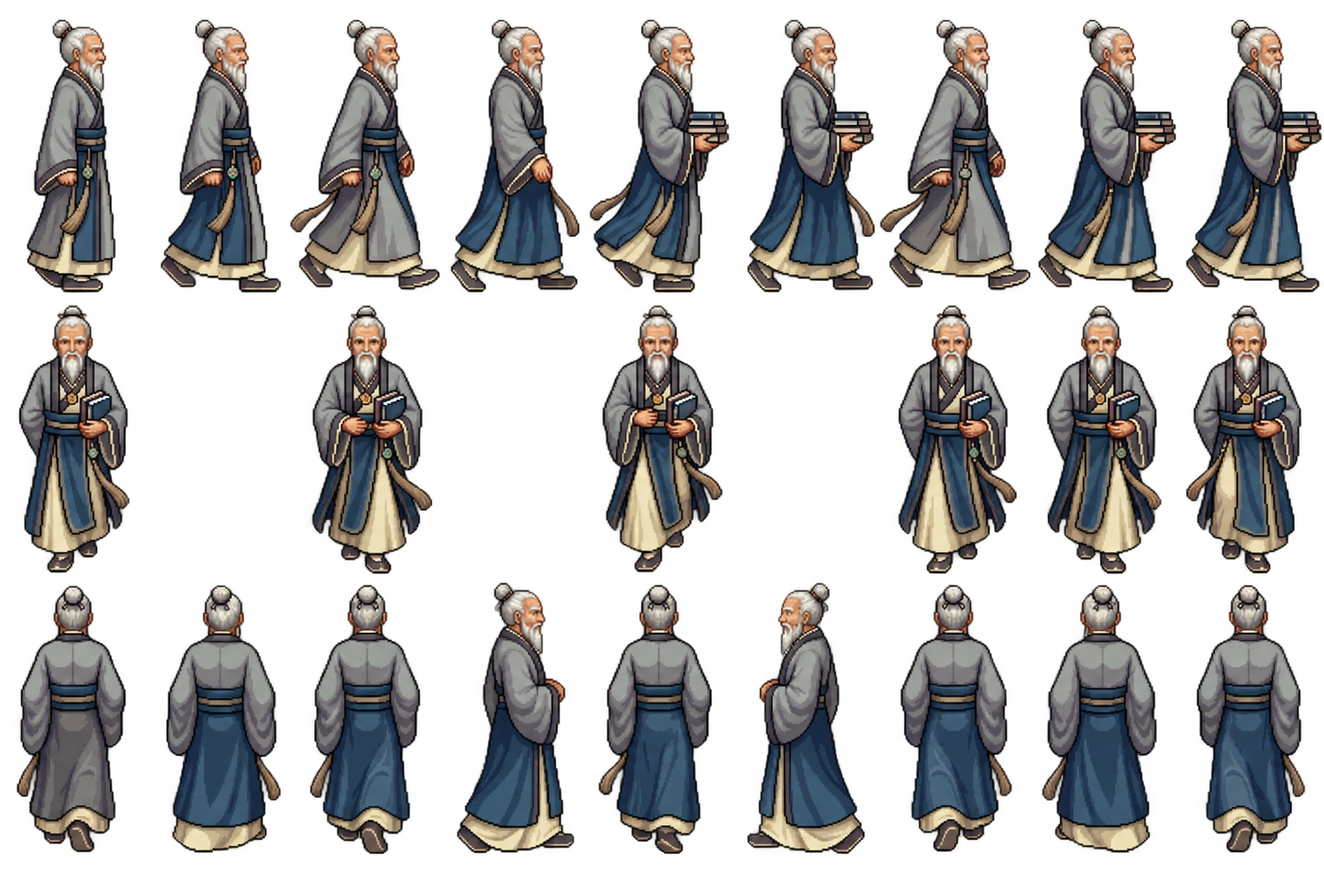
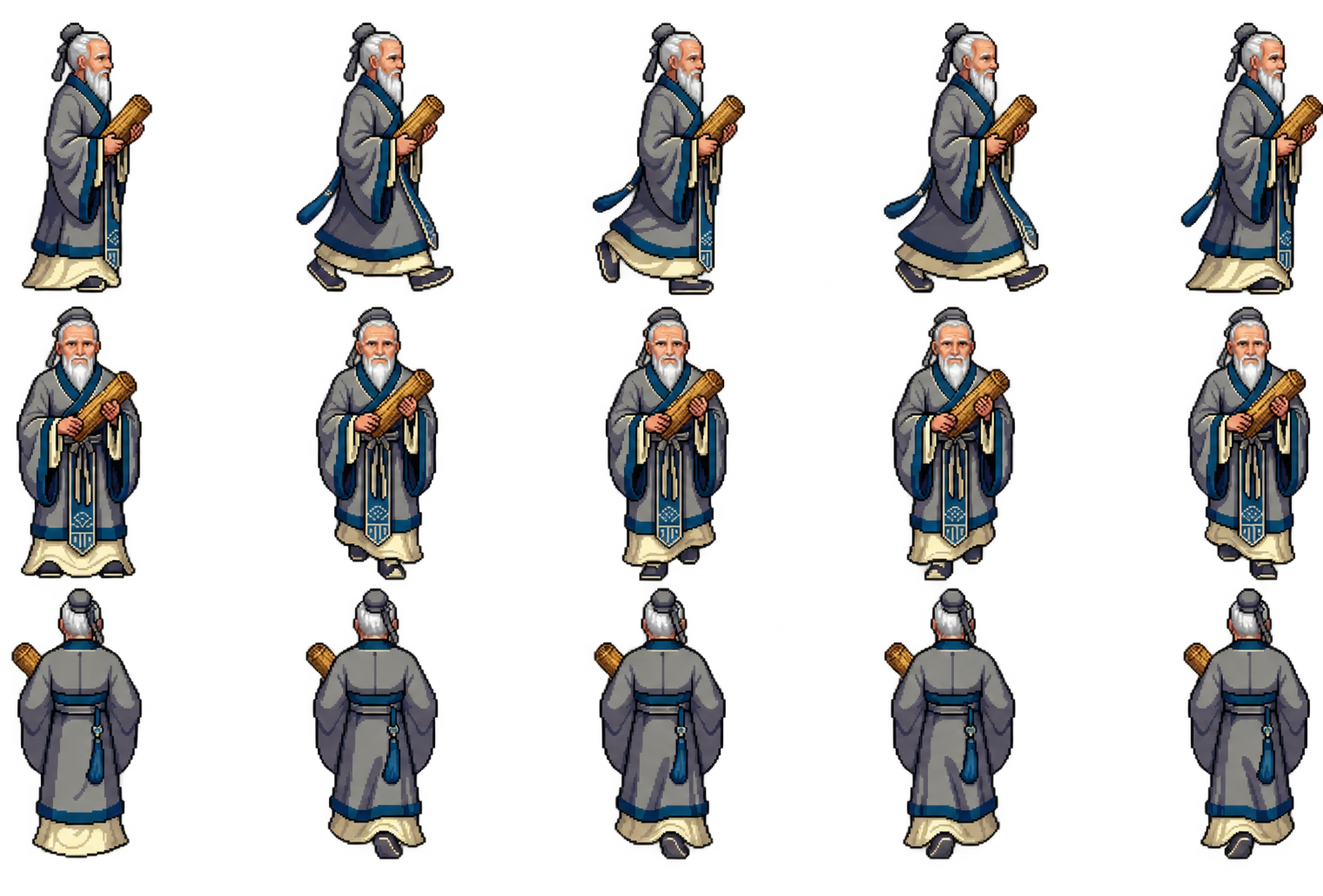
Restore character selection on every start and rebuild NPC walk frames

diff --git a/tests/browser/game.spec.js b/tests/browser/game.spec.js
@@ -9,7 +9,7 @@ for(const point of route.points.slice(1)){for(let i=0;i<180;i++){const [lat,lng]
 await expect(page.locator('#start-challenge')).toBeEnabled();}
 async function briefing(page){await expect(page.locator('.encounter-page')).toBeVisible();await page.locator('#npc-talk').click();for(let i=0;i<3;i++)await page.locator('#npc-next').click();}
 async function win(page,n){await expect(page.locator('[data-pad="0"]')).toBeEnabled({timeout:10000});for(let i=0;i<n;i++)await page.locator('[data-pad="0"]').click();await expect(page.locator('#next')).toBeVisible();}
-test('keyboard movement, retry, reload, unique rewards and full ending',async({page})=>{test.setTimeout(180000);const errors=[];page.on('pageerror',e=>errors.push(e.message));await page.addInitScript(()=>Math.random=()=>0);await begin(page);await expect(page.locator('#start-challenge')).toBeDisabled();await walk(page,'color');await page.locator('#start-challenge').click();await briefing(page);await expect(page.locator('[data-pad="0"]')).toBeDisabled();await expect(page.locator('[data-pad="1"]')).toBeEnabled({timeout:10000});await page.locator('[data-pad="1"]').click();await expect(page.locator('#replay')).toBeVisible();await page.locator('#replay').click();await win(page,4);await expect(page.locator('#next')).toHaveText('繼續探索其他夢境 →');await page.locator('#next').click();await expect(page.locator('#selected-name')).toContainText('屏東美術館');await expect(page.locator('.task-card[data-preview-task="color"]')).toHaveClass(/done/);await expect(page.locator('#start-challenge')).toBeEnabled();await page.reload();await page.locator('#begin').click();await expect(page.locator('.shard.collected')).toHaveCount(1);await walk(page,'gate');await expect(page.locator('#selected-name')).toContainText('阿猴城門');await page.locator('#start-challenge').click();await briefing(page);await win(page,5);await expect(page.locator('#next')).toHaveText('繼續探索其他夢境 →');await page.locator('#next').click();await walk(page,'book');await expect(page.locator('#selected-name')).toContainText('屏東書院');await page.locator('#start-challenge').click();await briefing(page);await win(page,6);await page.locator('#next').click();await expect(page.locator('.ending')).toBeVisible();await expect(page.locator('.united-shards span')).toHaveCount(3);expect(JSON.parse(await page.evaluate(()=>localStorage.getItem('dream-mender:v1:sim')))).toEqual(['color','gate','book']);await page.screenshot({path:'test-results/ending-desktop.png'});await page.locator('#return').click();await page.locator('#real-mode').click();await expect(page.locator('.shard.collected')).toHaveCount(0);await page.locator('#sim-mode').click();await page.locator('#reset').click();await page.locator('#cancel-reset').click();await expect(page.locator('.shard.collected')).toHaveCount(3);await page.locator('#reset').click();await page.locator('#confirm-reset').click();await expect(page.locator('.shard.collected')).toHaveCount(0);expect(errors).toEqual([]);});
+test('keyboard movement, retry, reload, unique rewards and full ending',async({page})=>{test.setTimeout(180000);const errors=[];page.on('pageerror',e=>errors.push(e.message));await page.addInitScript(()=>Math.random=()=>0);await begin(page);await expect(page.locator('#start-challenge')).toBeDisabled();await walk(page,'color');await page.locator('#start-challenge').click();await briefing(page);await expect(page.locator('[data-pad="0"]')).toBeDisabled();await expect(page.locator('[data-pad="1"]')).toBeEnabled({timeout:10000});await page.locator('[data-pad="1"]').click();await expect(page.locator('#replay')).toBeVisible();await page.locator('#replay').click();await win(page,4);await expect(page.locator('#next')).toHaveText('繼續探索其他夢境 →');await page.locator('#next').click();await expect(page.locator('#selected-name')).toContainText('屏東美術館');await expect(page.locator('.task-card[data-preview-task="color"]')).toHaveClass(/done/);await expect(page.locator('#start-challenge')).toBeEnabled();await page.reload();await page.locator('#begin').click();await expect(page.locator('.character-card.chosen')).toBeVisible();await page.locator('#confirm-player').click();await expect(page.locator('.shard.collected')).toHaveCount(1);await walk(page,'gate');await expect(page.locator('#selected-name')).toContainText('阿猴城門');await page.locator('#start-challenge').click();await briefing(page);await win(page,5);await expect(page.locator('#next')).toHaveText('繼續探索其他夢境 →');await page.locator('#next').click();await walk(page,'book');await expect(page.locator('#selected-name')).toContainText('屏東書院');await page.locator('#start-challenge').click();await briefing(page);await win(page,6);await page.locator('#next').click();await expect(page.locator('.ending')).toBeVisible();await expect(page.locator('.united-shards span')).toHaveCount(3);expect(JSON.parse(await page.evaluate(()=>localStorage.getItem('dream-mender:v1:sim')))).toEqual(['color','gate','book']);await page.screenshot({path:'test-results/ending-desktop.png'});await page.locator('#return').click();await page.locator('#real-mode').click();await expect(page.locator('.shard.collected')).toHaveCount(0);await page.locator('#sim-mode').click();await page.locator('#reset').click();await page.locator('#cancel-reset').click();await expect(page.locator('.shard.collected')).toHaveCount(3);await page.locator('#reset').click();await page.locator('#confirm-reset').click();await expect(page.locator('.shard.collected')).toHaveCount(0);expect(errors).toEqual([]);});
 test('real location explicit request, denial, retry, poor accuracy, expiry, no fallback',async({page})=>{await page.addInitScript(()=>{window.locationCalls=0;Object.defineProperty(navigator,'geolocation',{value:{watchPosition(ok,error){window.locationCalls++;window.geoOK=ok;window.geoError=error;return 1;},clearWatch(){}}});});await begin(page);await page.locator('#real-mode').click();expect(await page.evaluate(()=>window.locationCalls)).toBe(0);await page.locator('#locate').click();await page.evaluate(()=>window.geoError({code:1}));await expect(page.locator('#location-status')).toContainText('權限遭拒');await expect(page.locator('.mode-badge')).toContainText('真實定位模式');await page.locator('#locate').click();await page.evaluate(()=>window.geoOK({coords:{latitude:22.67,longitude:120.48,accuracy:100},timestamp:Date.now()}));await expect(page.locator('#location-status')).toContainText('精度不足');await page.locator('#locate').click();await page.evaluate(()=>window.geoOK({coords:{latitude:22.67,longitude:120.48,accuracy:5},timestamp:Date.now()-20000}));await expect(page.locator('#location-status')).toContainText('已過期');await page.locator('#locate').click();await page.evaluate(()=>window.geoOK({coords:{latitude:22.67,longitude:120.48,accuracy:5},timestamp:Date.now()}));await expect(page.locator('#start-challenge')).toBeDisabled();await expect(page.locator('#arrival-reason')).toContainText('尚未查證');});
 test('mobile joystick drag, release, cancellation and layout',async({page})=>{await page.setViewportSize({width:390,height:844});await begin(page);await expect(page.locator('.dpad')).toHaveCount(0);const before=await page.locator('#coordinates').innerText();const stick=page.locator('#joystick');await stick.scrollIntoViewIfNeeded();const box=await stick.boundingBox();await page.mouse.move(box.x+box.width/2,box.y+box.height/2);await page.mouse.down();await page.mouse.move(box.x+box.width/2,box.y+5);await page.waitForTimeout(500);await page.mouse.up();await page.waitForTimeout(200);const stopped=await page.locator('#coordinates').innerText();expect(stopped).not.toBe(before);await page.waitForTimeout(350);expect(await page.locator('#coordinates').innerText()).toBe(stopped);await expect(page.locator('.joystick-knob')).toHaveCSS('transform','matrix(1, 0, 0, 1, 0, 0)');await page.mouse.move(box.x+box.width/2,box.y+box.height/2);await page.mouse.down();await page.mouse.move(box.x+box.width/2,box.y+5);await page.waitForTimeout(250);await page.evaluate(()=>window.dispatchEvent(new Event('blur')));await page.mouse.up();await page.waitForTimeout(200);const paused=await page.locator('#coordinates').innerText();await page.waitForTimeout(300);expect(await page.locator('#coordinates').innerText()).toBe(paused);expect(await page.evaluate(()=>document.documentElement.scrollWidth<=innerWidth)).toBe(true);await page.screenshot({path:'test-results/joystick-mobile.png',fullPage:true});});
 
@@ -54,7 +54,7 @@ test('repair restores only its region and unlocks sourced journal story across r
  await page.setViewportSize({width:390,height:844});await page.addInitScript(()=>Math.random=()=>0);await begin(page);await expect(page.locator('.dream-region.colored')).toHaveCount(0);
  await page.locator('[data-tab="journal"]').click();await expect(page.locator('.journal article.locked')).toHaveCount(3);await expect(page.locator('.culture-story')).toHaveCount(0);await page.locator('[data-tab="explore"]').click();await walk(page,'color');await page.locator('#start-challenge').click();await briefing(page);await expect(page.locator('#repair-vision')).toHaveCSS('filter','grayscale(1)');await win(page,4);await expect(page.locator('#repair-vision')).toHaveCSS('filter','grayscale(0)');await expect(page.locator('#challenge-collection .collected')).toHaveCount(1);await page.screenshot({path:'test-results/repair-color-v8.png'});
  await page.locator('#next').click();await expect(page.locator('[data-region="color"]')).toHaveClass(/colored/);await expect(page.locator('.dream-region.colored')).toHaveCount(1);await page.locator('[data-tab="journal"]').click();await expect(page.locator('.journal article.unlocked')).toHaveCount(1);await expect(page.locator('[data-journal-task="color"] .culture-story')).toContainText('2022');await expect(page.locator('[data-journal-task="color"] .memory-story')).toContainText('遊戲故事');await expect(page.locator('[data-journal-task="color"] .story-source')).toHaveAttribute('href',/cna.com.tw/);await page.screenshot({path:'test-results/journal-unlocked-v8.png',fullPage:true});
- await page.reload();await page.locator('#begin').click();await expect(page.locator('.dream-region.colored')).toHaveCount(1);await page.locator('[data-tab="journal"]').click();await expect(page.locator('.journal article.unlocked')).toHaveCount(1);await page.locator('#real-mode').click();await expect(page.locator('.journal article.locked')).toHaveCount(3);await page.locator('#sim-mode').click();await page.locator('#reset').click();await page.locator('#confirm-reset').click();await expect(page.locator('.journal article.locked')).toHaveCount(3);await expect(page.locator('.dream-region.colored')).toHaveCount(0);
+ await page.reload();await page.locator('#begin').click();await expect(page.locator('.character-card.chosen')).toBeVisible();await page.locator('#confirm-player').click();await expect(page.locator('.dream-region.colored')).toHaveCount(1);await page.locator('[data-tab="journal"]').click();await expect(page.locator('.journal article.unlocked')).toHaveCount(1);await page.locator('#real-mode').click();await expect(page.locator('.journal article.locked')).toHaveCount(3);await page.locator('#sim-mode').click();await page.locator('#reset').click();await page.locator('#confirm-reset').click();await expect(page.locator('.journal article.locked')).toHaveCount(3);await expect(page.locator('.dream-region.colored')).toHaveCount(0);
 });
 
 test('walk directly to any landmark without selecting a mission; challenge stays bound to arrival',async({page})=>{
@@ -72,8 +72,8 @@ test('zoom hierarchy and challenge steps, retry feedback and cultural reward',as
 test('joystick offers slow movement and blocked-road feedback without leaving roads',async({page})=>{
  await page.setViewportSize({width:390,height:844});await begin(page);
  async function drag(fraction){const b=await page.locator('#joystick').boundingBox();const before=(await page.locator('#coordinates').innerText()).split(',').map(Number);await page.mouse.move(b.x+b.width/2,b.y+b.height/2);await page.mouse.down();await page.mouse.move(b.x+b.width/2,b.y+b.height/2-b.width*.3*fraction);await page.waitForTimeout(700);await page.mouse.up();await page.waitForTimeout(150);const after=(await page.locator('#coordinates').innerText()).split(',').map(Number);expect(roadRoute({lat:after[0],lng:after[1]},'color')).not.toBeNull();return Math.hypot(after[0]-before[0],after[1]-before[1]);}
- const slow=await drag(.35);await page.reload();await page.locator('#begin').click();const fast=await drag(1);expect(slow).toBeGreaterThan(0);expect(fast).toBeGreaterThan(slow*2);
- await page.reload();await page.locator('#begin').click();const before=await page.locator('#coordinates').innerText();const b=await page.locator('#joystick').boundingBox();await page.mouse.move(b.x+b.width/2,b.y+b.height/2);await page.mouse.down();await page.mouse.move(b.x+b.width*.67,b.y+b.height*.75);await expect(page.locator('#junction-hint')).toContainText('前方無法通行');expect(await page.locator('#coordinates').innerText()).toBe(before);await page.mouse.up();await expect(page.locator('#player')).not.toHaveClass(/blocked/);
+ const slow=await drag(.35);await page.reload();await page.locator('#begin').click();await expect(page.locator('.character-card.chosen')).toBeVisible();await page.locator('#confirm-player').click();const fast=await drag(1);expect(slow).toBeGreaterThan(0);expect(fast).toBeGreaterThan(slow*2);
+ await page.reload();await page.locator('#begin').click();await expect(page.locator('.character-card.chosen')).toBeVisible();await page.locator('#confirm-player').click();const before=await page.locator('#coordinates').innerText();const b=await page.locator('#joystick').boundingBox();await page.mouse.move(b.x+b.width/2,b.y+b.height/2);await page.mouse.down();await page.mouse.move(b.x+b.width*.67,b.y+b.height*.75);await expect(page.locator('#junction-hint')).toContainText('前方無法通行');expect(await page.locator('#coordinates').innerText()).toBe(before);await page.mouse.up();await expect(page.locator('#player')).not.toHaveClass(/blocked/);
 });
 
 test('NPC patrol, talk artwork, cultural dialogue and mission return preserve progress',async({page})=>{
@@ -91,7 +91,7 @@ test('arrival feedback, patrol resume, readable dialogue, heard skip and NPC tha
  test.setTimeout(90000);await page.setViewportSize({width:390,height:844});await page.addInitScript(()=>Math.random=()=>0);await begin(page);await page.keyboard.down('w');await expect(page.locator('#arrival-toast')).toBeVisible({timeout:6000});await page.keyboard.up('w');await expect(page.locator('.map-pin.arrived')).toHaveCount(1);await page.locator('#start-challenge').click();await expect(page.locator('#npc-skip')).toHaveCount(0);
  await page.waitForTimeout(1300);const patrolTime=await page.locator('.npc-walker').evaluate(el=>el.getAnimations()[0].currentTime);await page.locator('#npc-talk').click();await expect(page.locator('.npc-stage')).toHaveClass(/talking/);const frozen=await page.locator('.npc-walker').evaluate(el=>el.getAnimations()[0].currentTime);expect(Math.abs(frozen-patrolTime)).toBeLessThan(500);await page.waitForTimeout(400);expect(await page.locator('.npc-walker').evaluate(el=>el.getAnimations()[0].currentTime)).toBeCloseTo(frozen,0);await page.locator('#npc-close').click();await expect(page.locator('#npc-talk')).toBeVisible();const resumed=await page.locator('.npc-walker').evaluate(el=>el.getAnimations()[0].currentTime);expect(resumed).toBeGreaterThanOrEqual(frozen);expect(resumed-frozen).toBeLessThan(1000);
  await page.locator('#npc-talk').click();await page.locator('#npc-next').click();const dialogue=await page.locator('.npc-dialogue').boundingBox(),actions=await page.locator('.npc-actions').boundingBox();expect(actions.y).toBeGreaterThanOrEqual(dialogue.y+dialogue.height-1);expect(actions.y+actions.height).toBeLessThan(844);await page.screenshot({path:'test-results/npc-v13-mobile.png',fullPage:true});await page.locator('#npc-next').click();await page.locator('#npc-next').click();await expect(page.locator('.challenge-page')).toBeVisible();await page.locator('#back').click();await page.locator('#start-challenge').click();await expect(page.locator('#npc-skip')).toBeVisible();await page.locator('#npc-skip').click();await win(page,4);await expect(page.locator('.npc-thanks')).toContainText('色彩引路人');await expect(page.locator('.npc-thanks')).toContainText('阿猴城門');await expect(page.locator('.npc-thanks')).toContainText('屏東書院');await page.screenshot({path:'test-results/npc-v13-thanks.png',fullPage:true});
- await page.reload();await page.locator('#begin').click();await walk(page,'color');await page.locator('#start-challenge').click();await expect(page.locator('#npc-skip')).toBeVisible();
+ await page.reload();await page.locator('#begin').click();await expect(page.locator('.character-card.chosen')).toBeVisible();await page.locator('#confirm-player').click();await walk(page,'color');await page.locator('#start-challenge').click();await expect(page.locator('#npc-skip')).toBeVisible();
 });
 
 test('player selection, directional walking, stopping, change and persistence',async({page})=>{
@@ -99,5 +99,5 @@ test('player selection, directional walking, stopping, change and persistence',a
  await page.keyboard.down('w');await expect(page.locator('#player')).toHaveAttribute('data-moving','true');await expect(page.locator('#player')).toHaveAttribute('data-direction','up');const first=await page.locator('#player svg').getAttribute('viewBox');await expect.poll(()=>page.locator('#player svg').getAttribute('viewBox')).not.toBe(first);await page.keyboard.up('w');await expect(page.locator('#player')).toHaveAttribute('data-frame','0');
  await page.keyboard.down('s');await expect(page.locator('#player')).toHaveAttribute('data-direction','down');await page.keyboard.up('s');await expect(page.locator('#player')).toHaveAttribute('data-moving','false');await page.waitForTimeout(150);const pos=await page.locator('#coordinates').innerText();await page.waitForTimeout(300);expect(await page.locator('#coordinates').innerText()).toBe(pos);
  await page.locator('#change-player').click();await page.locator('[data-choose-player="male"]').click();await page.locator('#cancel-player').click();await expect(page.locator('#player svg')).toHaveAttribute('data-player','female');await page.locator('#change-player').click();await page.locator('[data-choose-player="male"]').click();await page.locator('#confirm-player').click();await expect(page.locator('#player svg')).toHaveAttribute('data-player','male');expect(await page.locator('#coordinates').innerText()).toBe(pos);
- await page.reload();await page.locator('#begin').click();await expect(page.locator('#player svg')).toHaveAttribute('data-player','male');await expect(page.locator('#player svg')).toHaveCSS('opacity','1');expect(await page.evaluate(()=>document.documentElement.scrollWidth<=innerWidth)).toBe(true);await page.screenshot({path:'test-results/character-map.png'});
+ await page.reload();await page.locator('#begin').click();await expect(page.locator('.character-card.chosen')).toBeVisible();await page.locator('#confirm-player').click();await expect(page.locator('#player svg')).toHaveAttribute('data-player','male');await expect(page.locator('#player svg')).toHaveCSS('opacity','1');expect(await page.evaluate(()=>document.documentElement.scrollWidth<=innerWidth)).toBe(true);await page.screenshot({path:'test-results/character-map.png'});
 });

diff --git a/src/app.js b/src/app.js
@@ -29,7 +29,7 @@ function audio(index=0){if(!sound)return;try{const ctx=audio.ctx??=new (window.A
 function scene(colored=true){return `<svg class="dream-art ${colored?'':'unrepaired'}" viewBox="0 0 700 420" role="img" aria-label="浮在雲海上的夢境島嶼，花園、古城與書院"><defs><linearGradient id="island" x2="0" y2="1"><stop stop-color="#a49ae5"/><stop offset="1" stop-color="#5e609b"/></linearGradient><linearGradient id="sky"><stop stop-color="#e0b9e9"/><stop offset="1" stop-color="#b6dce8"/></linearGradient></defs><g fill="#e9e2ff" opacity=".8"><ellipse cx="190" cy="331" rx="145" ry="28"/><ellipse cx="540" cy="304" rx="130" ry="23"/><ellipse cx="365" cy="375" rx="166" ry="15"/></g><path d="M145 259L348 355 564 250 372 188Z" fill="url(#island)"/><path d="M145 259L345 312 564 250 372 188Z" fill="#b9d6c9"/><path d="M145 259L243 320 348 355 345 312Z" fill="#7876b2"/><path d="M348 355L468 315 564 250 345 312Z" fill="#9393ca"/><path d="M269 259Q361 222 460 256" fill="none" stroke="#efe7cf" stroke-width="21"/><g transform="translate(285 82)"><path d="M0 162V54h25V29h28V55h26V0h33v55h27V30h28v133Z" fill="#e9c8d2"/><path d="M-12 67L38 24 87 67M61 15L96 -19 127 15M119 69L154 29 188 69" fill="#7779b7"/><path d="M69 162V114a24 24 0 0 1 48 0v48" fill="#686795"/><path d="M78 160V119a15 15 0 0 1 30 0v41" fill="#ffd790"/><g fill="#a088b4"><rect x="22" y="91" width="17" height="29" rx="8"/><rect x="143" y="91" width="17" height="29" rx="8"/></g><path d="M96 -18v-32l35 10-35 12" fill="#ecb9d4"/></g><g transform="translate(177 194)"><path d="M0 45V0L43 -19 85 0v45L43 64Z" fill="#ecbdd9"/><path d="M0 0l43 16L85 0M43 16v48" fill="none" stroke="#fff0df" stroke-width="5"/><path d="M12 13l20 8m-20 4 20 8m25-12 16-8m-16 20 16-8" stroke="#fff0df" stroke-width="4"/></g><g fill="#b39bdd" stroke="#7b9b9c" stroke-width="5"><path d="M480 235v-66m-22 78v-41"/><circle cx="480" cy="155" r="27"/><circle cx="458" cy="198" r="18"/></g><g fill="#ffe5a7"><path d="M217 117l5 13 13 5-13 5-5 13-5-13-13-5 13-5Z"/><path d="M508 96l5 13 13 5-13 5-5 13-5-13-13-5 13-5Z"/><circle cx="262" cy="70" r="3"/><circle cx="549" cy="194" r="4"/></g><g transform="translate(307 235)"><ellipse cy="28" rx="17" ry="6" fill="#787694" opacity=".4"/><path d="M-15 24q1-42 15-42t15 42" fill="#fff0de"/><circle cx="-5" cy="1" r="2" fill="#55527a"/><circle cx="5" cy="1" r="2" fill="#55527a"/><path d="M-13-7L0-30 13-7Z" fill="#7c71af"/><path d="M0-30l4-10 4 10" fill="#f6d89f"/></g></svg>`;}
 function header(){return `<header><a class="brand" href="#" id="brand"><span class="brand-icon">✦</span> 夢境修補員 <small>DREAM MENDER</small></a><button id="sound" class="subtle" aria-pressed="${sound}">${sound?'♫ 音效開啟':'♪ 音效關閉'}</button></header>`;}
 function shell(content){app.innerHTML=header()+content+`<footer><span>✧ 請停步後再操作，留意周遭環境</span><span></span></footer><p id="storage-warning" role="alert">${storageWarning}</p>`;$('#sound').onclick=()=>{sound=!sound;$('#sound').textContent=sound?'♫ 音效開啟':'♪ 音效關閉';$('#sound').setAttribute('aria-pressed',sound);if(sound)audio();};$('#brand').onclick=e=>{e.preventDefault();if(screen==='challenge'||screen==='encounter')return;screen='home';render();};}
-function home(){shell(`<main class="home cover"><div class="cover-spark">✦</div><div class="eyebrow">屏東・文化記憶之旅</div><h1 class="game-title">夢境<span>修補員</span></h1><p class="cover-subtitle">沿著街道，找回城市遺落的色彩。</p><div class="cover-world"><div class="cover-moon"></div><div class="cover-island"></div><div class="cover-building cover-book">${landmark('book')}</div><div class="cover-building cover-gate">${landmark('gate')}</div><div class="cover-building cover-museum">${landmark('color')}</div><span class="cover-star star-one">✧</span><span class="cover-star star-two">✦</span><div class="cover-traveler">✦</div></div><button id="begin" class="primary">${store.read(mode).length?'繼續我的旅程':'開始修補夢境'} <span>→</span></button><p class="home-note">模擬探索 · 三段記憶 · 一座城市</p></main>`);$('#begin').onclick=()=>{selected=nearbyDream(TASKS,position,mode).task;screen=playerId?'explore':'choosePlayer';render();};}
+function home(){shell(`<main class="home cover"><div class="cover-spark">✦</div><div class="eyebrow">屏東・文化記憶之旅</div><h1 class="game-title">夢境<span>修補員</span></h1><p class="cover-subtitle">沿著街道，找回城市遺落的色彩。</p><div class="cover-world"><div class="cover-moon"></div><div class="cover-island"></div><div class="cover-building cover-book">${landmark('book')}</div><div class="cover-building cover-gate">${landmark('gate')}</div><div class="cover-building cover-museum">${landmark('color')}</div><span class="cover-star star-one">✧</span><span class="cover-star star-two">✦</span><div class="cover-traveler">✦</div></div><button id="begin" class="primary">${store.read(mode).length?'繼續我的旅程':'開始修補夢境'} <span>→</span></button><p class="home-note">模擬探索 · 三段記憶 · 一座城市</p></main>`);$('#begin').onclick=()=>{selected=nearbyDream(TASKS,position,mode).task;pendingPlayer=playerId||'male';screen='choosePlayer';render();};}
 function choosePlayer(){shell(`<main class="character-page"><div class="eyebrow">你的旅程，由你出發</div><h1>選擇夢境修補員</h1><p>帶著好奇心，走進屏東的街角。</p><div class="character-options" role="group" aria-label="選擇玩家角色">${Object.entries(PLAYERS).map(([id,art])=>`<button class="character-card ${pendingPlayer===id?'chosen':''}" data-choose-player="${id}" aria-pressed="${pendingPlayer===id}">${playerArtwork(id,true)}<strong>${art.name}</strong><small>${pendingPlayer===id?'✦ 已選擇':'選擇這位修補員'}</small></button>`).join('')}</div><button id="confirm-player" class="primary">${playerId?'以這個角色繼續':'出發，修補夢境'} →</button><button id="cancel-player" class="subtle">返回</button></main>`);document.querySelectorAll('[data-choose-player]').forEach(el=>el.onclick=()=>{pendingPlayer=el.dataset.choosePlayer;choosePlayer();$(`[data-choose-player="${pendingPlayer}"]`).focus();});$('#confirm-player').onclick=()=>{playerId=pendingPlayer;try{storage.setItem('dream-mender:player',playerId);}catch{storageWarning='無法儲存角色選擇，本次仍可遊玩。';}screen='explore';render();};$('#cancel-player').onclick=()=>{screen=playerId?'explore':'home';render();};}
 function progress(){const completed=store.read(mode);return `<div class="collection"><div><span class="eyebrow">你的夢境收藏</span><h3>星光正在聚集 <span>${completed.length} / 3</span></h3></div><div class="shards">${TASKS.map(t=>`<span class="shard ${completed.includes(t.id)?'collected':''}" title="${t.name}${completed.includes(t.id)?'已修復':'未修復'}">${t.icon}</span>`).join('')}</div></div>`;}
 function mapPoint(p){return {x:(p.lng-SETTINGS.bounds.minLng)/(SETTINGS.bounds.maxLng-SETTINGS.bounds.minLng)*100,y:(SETTINGS.bounds.maxLat-p.lat)/(SETTINGS.bounds.maxLat-SETTINGS.bounds.minLat)*100};}

diff --git a/src/npc.js b/src/npc.js
@@ -6,21 +6,21 @@ export function npcDialogue(task){const npc=NPCS[task.id],story=STORIES[task.id]
 const patrolTimes=new Map();
 export function rememberNpc(stage,id){const time=stage?.querySelector('.npc-walker')?.getAnimations()[0]?.currentTime;if(typeof time==='number')patrolTimes.set(id,time);}
 export function restoreNpc(stage,id){const animation=stage?.querySelector('.npc-walker')?.getAnimations()[0];if(animation)animation.currentTime=patrolTimes.get(id)||0;}
-export function npcPatrolPose(elapsed){const t=((elapsed%20000)+20000)%20000;const returning=t>=10000;const travel=returning?t-11000:t-1000;return {returning,walking:travel>0&&travel<8000,frame:travel>0&&travel<8000?Math.floor(travel/230)%4:0};}
+export function npcPatrolPose(elapsed){const t=((elapsed%20000)+20000)%20000;const returning=t>=10000;const travel=returning?t-11000:t-1000;return {returning,walking:travel>0&&travel<8000,frame:travel>0&&travel<8000?1+Math.floor(travel/180)%4:0};}
 // Keep uploaded originals intact. SVG viewBox displays the relevant character frame.
 export const NPC_ART={
  color:{portrait:{src:'./src/assets/npc/color-portrait-cutout.png',size:[1376,768],box:[490,35,335,733]},sheet:{src:'./src/assets/npc/color-sheet-cutout.png',size:[1253,848],box:[5,290,155,270]}},
- gate:{portrait:{src:'./src/assets/npc/gate-portrait-cutout.png',size:[1175,896],box:[395,20,540,860]},sheet:{src:'./src/assets/npc/gate-sheet-cutout.png',size:[1408,768],box:[5,277,139,227]}},
+ gate:{portrait:{src:'./src/assets/npc/gate-portrait-cutout.png',size:[1175,896],box:[395,20,540,860]},sheet:{src:'./src/assets/npc/gate-sheet-cutout.png',size:[1264,848],box:[0,0,170,280]}},
  book:{portrait:{src:'./src/assets/npc/book-portrait-cutout.png',size:[442,765],box:[25,10,390,745]},sheet:{src:'./src/assets/npc/book-sheet-cutout.png',size:[1253,848],box:[10,290,125,265]}}
 };
-export const NPC_WALK_FRAMES={color:[[275,0,160,280],[550,0,160,280],[825,0,160,280],[1093,.9,160,280]],gate:[[0,27,117,223],[117,27,117,223],[587,27,117,223],[704,27,117,223]],book:[[135,5,140,280],[275,2.5,140,280],[415,5,140,280],[275,2.5,140,280]]};
+export const NPC_WALK_FRAMES={color:[[5,0,160,280],[275,0,160,280],[540,0,160,280],[825,0,160,280],[1093,0,160,280]],gate:[[0,0,170,280],[275,0,170,280],[545,0,170,280],[815,0,170,280],[1085,0,170,280]],book:[[0,0,160,280],[270,0,160,280],[545,0,160,280],[825,0,160,280],[1093,0,160,280]]};
 export function npcArtwork(id,purpose){const source=NPC_ART[id][purpose==='walk'?'sheet':'portrait'];const art={...source,box:purpose==='walk'?NPC_WALK_FRAMES[id][0]:source.box};return `<svg class="npc-art" data-npc-art="${id}-${purpose}" viewBox="${art.box.join(' ')}" role="img" aria-label="${NPCS[id].name}${purpose==='walk'?'移動角色':'談話角色'}"><defs><filter id="npc-solid-${id}-${purpose}" color-interpolation-filters="sRGB"><feComponentTransfer><feFuncA type="discrete" tableValues="0 1"/></feComponentTransfer></filter><clipPath id="npc-clip-${id}-${purpose}"><rect x="${art.box[0]}" y="${art.box[1]}" width="${art.box[2]}" height="${art.box[3]}"/></clipPath></defs><image filter="url(#npc-solid-${id}-${purpose})" preserveAspectRatio="none" clip-path="url(#npc-clip-${id}-${purpose})" href="${art.src}" width="${art.size[0]}" height="${art.size[1]}"/></svg>`;}
 
 export function animateNpc(stage,id){
  if(!stage||stage.classList.contains('talking'))return;
  const walker=stage.querySelector('.npc-walker'),svg=walker.querySelector('svg');
  const elapsed=Number(walker.getAnimations()[0]?.currentTime)||0;
- const pose=npcPatrolPose(elapsed);const box=NPC_WALK_FRAMES[id][pose.frame];patrolTimes.set(id,elapsed);walker.dataset.walking=String(pose.walking);
+ const pose=npcPatrolPose(elapsed);const box=NPC_WALK_FRAMES[id][pose.frame];patrolTimes.set(id,elapsed);walker.dataset.walking=String(pose.walking);walker.dataset.frame=String(pose.frame);walker.dataset.direction=pose.returning?'left':'right';
  svg.setAttribute('viewBox',box.join(' '));const rect=svg.querySelector('clipPath rect');['x','y','width','height'].forEach((key,i)=>rect.setAttribute(key,box[i]));
  svg.style.transform=pose.returning?'scaleX(-1)':'scaleX(1)';
 }

diff --git a/styles.css b/styles.css
@@ -87,3 +87,5 @@ header,.explore,.challenge-page,.ending{max-width:600px}.bottom-nav{width:min(10
 @media(max-width:360px){.mode-switch{width:100%;min-width:0}.mode-switch button{padding:10px 8px;flex:1;font-size:12px}#change-player{font-size:12px}.character-card strong{font-size:16px}.character-card small{font-size:12px}}
 /* Give the actor more stage space; dialogue camera crops move toward the face. */
 .npc-stage:not(.talking) .npc-walker{height:220px;width:128px;max-height:80%;bottom:24px}.is-talking .npc-stage{height:clamp(285px,44svh,430px)}.npc-hero{inset:8px 3% 28px}.npc-hero .npc-art{overflow:hidden}.destination-pointer{max-width:148px;height:48px;box-sizing:border-box}.destination-pointer small{overflow:hidden;text-overflow:ellipsis}
+/* Turn before the enlarged actor reaches the stage edge. */
+@keyframes npc-stroll{0%,5%{left:8%}45%,55%{left:calc(92% - 128px)}95%,100%{left:8%}}

diff --git a/README.md b/README.md
@@ -204,3 +204,10 @@ npm run test:e2e
 - 現場 NPC 高度由 165px 放大至 220px；三段對話使用各角色專屬取景，依序由較遠構圖拉近至臉部特寫，650ms 平滑過渡，上一段可拉回。減少動態效果偏好下直接切換。
 - `NPC_DIALOGUE_SHOTS` 集中設定三位角色各段取景；沿用原圖，不更動任務、獎勵或存檔。
 - 驗證：23 項核心測試、5 項相關瀏覽器回歸測試；另驗證三角色逐段縮放／上一段還原，並以手機畫面檢查六種縮放下提示不遮擋玩家。
+
+## 選角入口與新版 NPC 步伐（17）
+
+- 每次由首頁開始／繼續都先顯示選角畫面，預選上次角色；不再因已有角色存檔而跳過。
+- 依此次 `Gemini_Generated_Image_gg9vfsgg9vfsgg9v.zip` 三張動作圖更新去背素材：美術館引路人、書院說書人及古城守夢人。重新設定各張圖的五欄裁切，站定使用第 0 格、走動循環第 1–4 格，返回時鏡像側面。
+- 配合放大後的 128px NPC 寬度調整巡遊端點，避免角色走到畫面外。談話立繪與逐段臉部特寫維持可用。
+- 驗證：23 項核心測試、4 項相關瀏覽器測試通過；包含已存檔後重新選角、三位 NPC、巡遊與對話接續。
